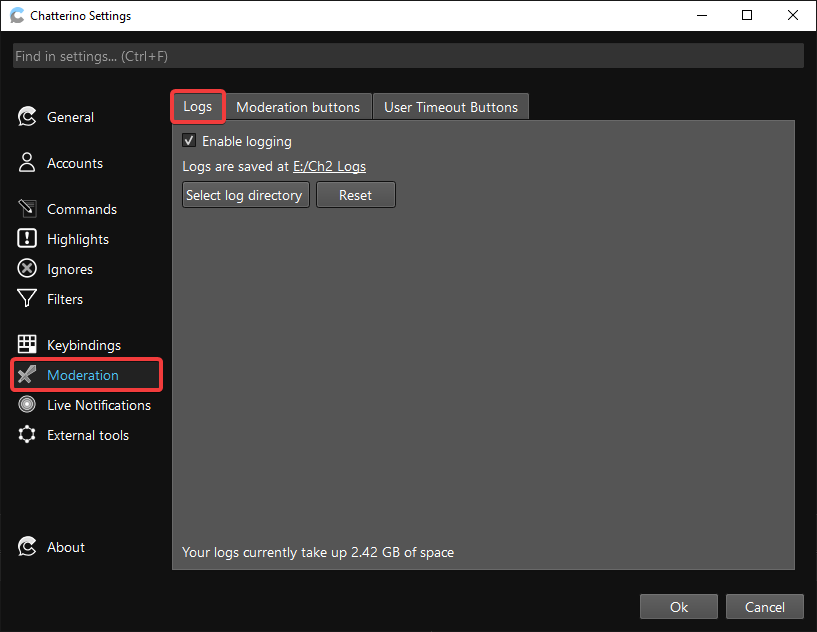
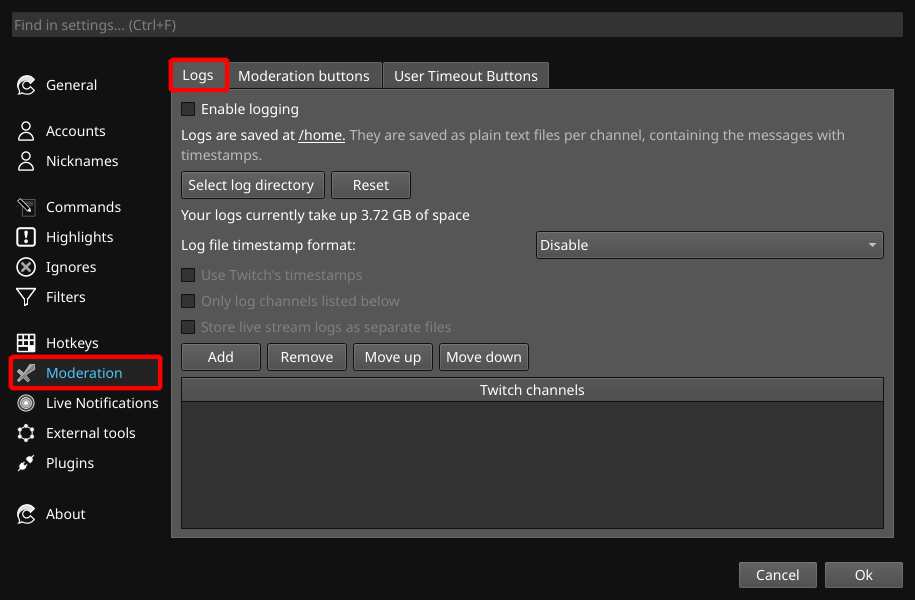
feat: improve the description of the logging feature in moderation (#467)

diff --git a/docs/Moderation.md b/docs/Moderation.md
@@ -12,9 +12,27 @@ You can choose from: Emote only, Subscriber only, Slow mode, R9K mode and Follow
 
 ## Logging
 
-Moderators are able to log all the channels they are in using the logging feature.
+Users are able to log all the channels they are in using the logging feature. This writes the messages to a text file with date and time. You can choose a timestamp format or none, log only selected channels from a list, and have each stream logged to separate files.
 
 ![Logging](./images/moderation/logging.png)
+
+An example log file is shown below:
+
+```
+[13:39] connected
+[13:39] joined channel
+[13:39] marinapicher: daba mal rollito
+[13:39] nacari07: Aduana
+[13:39] bizen_fg has been timed out for 5m.
+[13:40] nakoabro: Jajajajaja
+[13:40] lui01010: Holaaaa
+[13:40] lui01010 subscribed at Tier 1. They've subscribed for 2 months, currently on a 1 month streak!
+[13:43] A message from davidpol91 was deleted: Lskcjdjxjdjdjdndjddjdjdjdjxxjxbxbxbxbxbx
+[13:44] brennu1retardado has been permanently banned.
+[13:44] theflipper__: !visit h
+[13:44] karolfunez23: auronRisitas
+[13:44] eliotgame34: !vicit m
+```
 
 ## Moderation Mode
 
